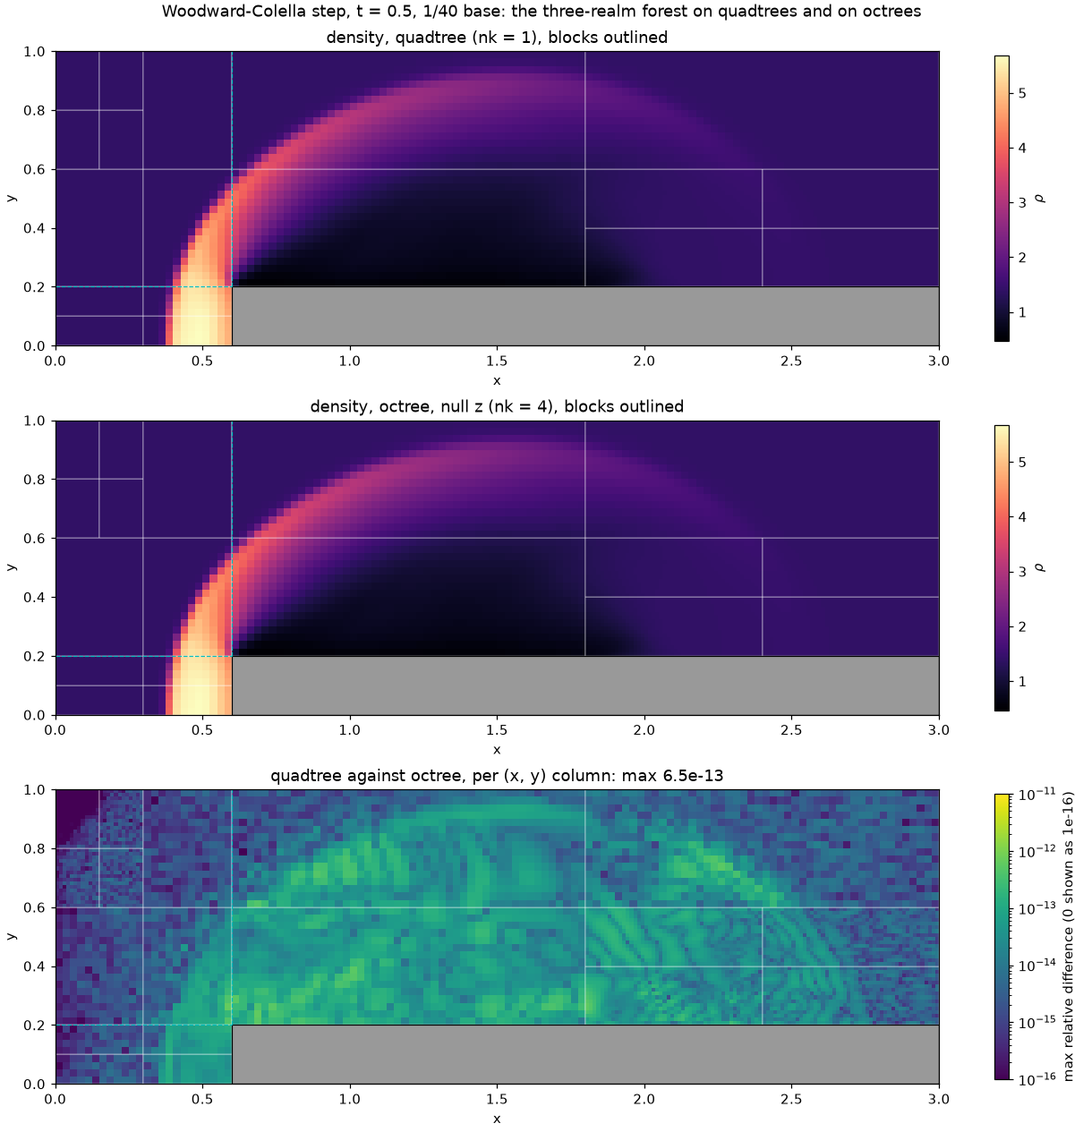
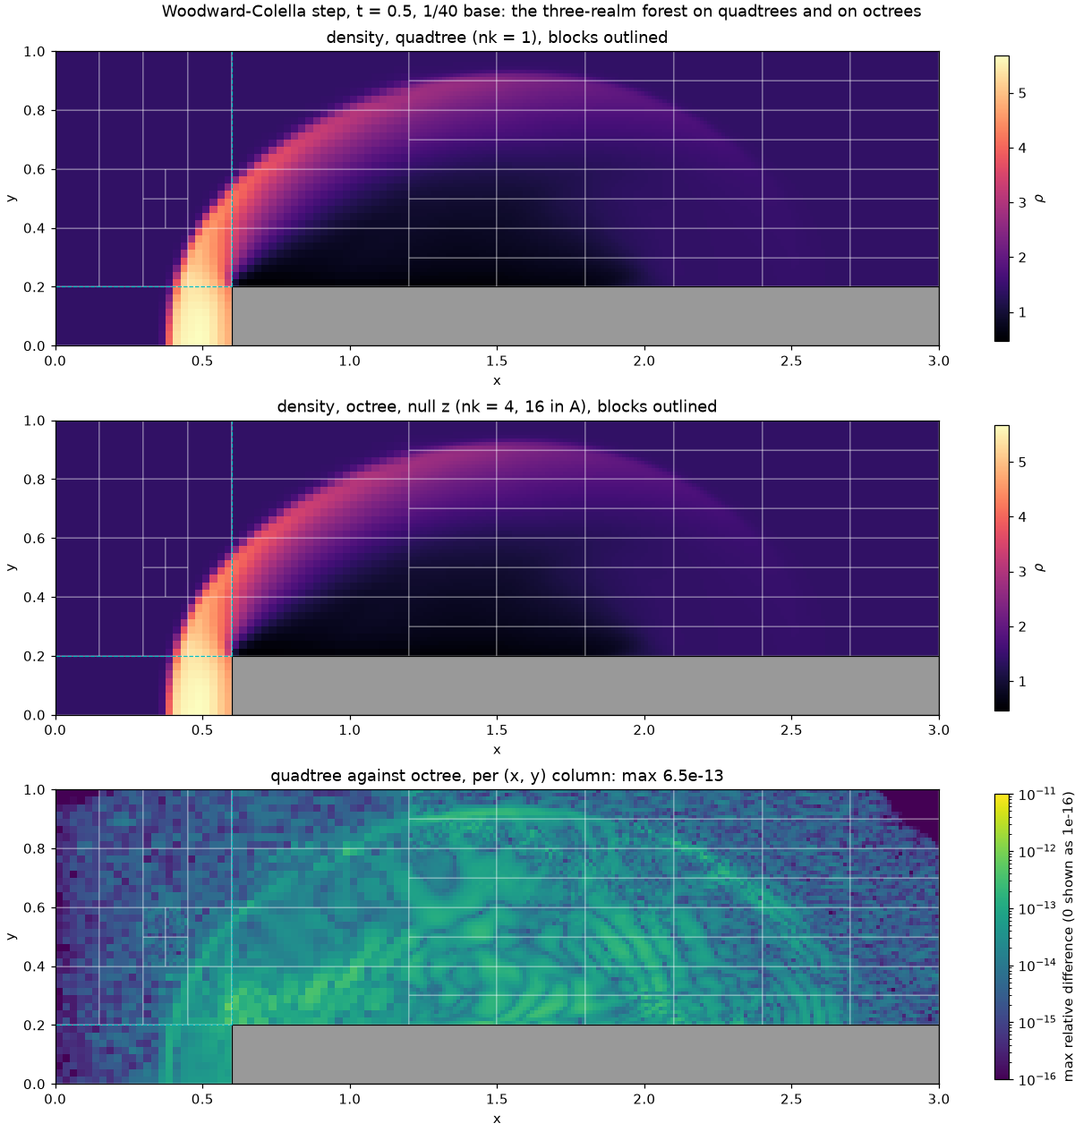
fix(lib): refuse AMR blocks thinner than 2*ngc along a refined axis
At a 2:1 seam the coarse ghost layers beside a finer block are restricted
  from 2*ngc fine cells. A thinner fine block holds fewer, so the outer
  layers were restricted from the fine block's own ghost cells, which the
  same exchange is still filling: fresh or a stage stale depending on the
  exchange order. The local order happened to refresh them first, the MPI
  path did not, so results changed with the rank count, silently (coarse
  ghost density off by 0.2 between 1 and 2 ranks on the step forest).
  realm_object%initialize now refuses n < 2*ngc along every refined,
  non-null axis, next to the even-count rule of #39 (PARAMESH imposes the
  same nxb >= 2*nguard). Every committed case below 6 cells is so only
  along a null axis, where the field is invariant: no golden changes.

  The Woodward-Colella step forest exposed it. Its refined boxes were
  placed for seam coverage and sat in smooth flow; they now sit on the
  t = 4 features (A the bow shock on the lower wall, B the bow shock below
  the Mach stem, C everything from x = 0.9), with B and C on finer blocks
  so the boxes can approach the seams, A on 8-cell blocks, and the octree
  z cells matched across the seams (nk 16 in A). The refinement is
  static and geometric (FLUME AMR is initialisation-only until M5); the
  docs now say so, and that the Mach stem on the B-C seam stays coarse
  (coupling = refined is octree-only).

  - conservation/check.sh: leg 4, ni = 4 must be refused with the message
[…]

diff --git a/src/tests/flume/verification/step/make_step.py b/src/tests/flume/verification/step/make_step.py
@@ -18,14 +18,28 @@ walls of the realms, with no immersed boundary.
           x = 0    x = 0.6                       x = 3
 
 A seam A-B at y = 0.2 (x in [0, 0.6]), a seam B-C at x = 0.6 (y in [0.2, 1]). All three realms share the base cell
-1/N (--cells N, 80 by default, the coarse grid of Woodward and Colella) and N/20 blocks per axis (iu_ref_levels =
-log2(N/20): 4x4 blocks at N = 80, 2x2 at N = 40; the step realm A keeps 4 cells per block along y). --refine adds one
-level on the blocks whose centroid lies in two boxes kept off the seams (a refined block may not touch an inter-realm
-seam): C on x in [1.3, 3], y in [0.2, 0.55] (2:1 seams at x = 1.2 and y = 0.6 at N = 80, x = 1.8 and y = 0.6 at
-N = 40, crossed by the corner's expansion and the reflected shocks) and B on x in [0, 0.4], y in [0.55, 1].
+1/N (--cells N, 80 by default, the coarse grid of Woodward and Colella); B and C have N/10 blocks per axis (8x8 at
+N = 80), narrow enough to refine close to the seams, A N/40 (2x2 at N = 80, a single block at N = 40), so that its
+blocks keep 8 cells along y: a refined block needs at least 2 ngc = 6 cells along every active axis (realm_object
+check_amr_block_cells). The seams A-B and B-C are misaligned 1:1 mirror seams (issue #51).
+
+--refine adds one level on the blocks whose centroid lies in a box of each realm. The refinement is STATIC and
+GEOMETRIC: the boxes are placed by hand on the features of the reference solution at t = 4 and the grid is frozen
+after initialisation (FLUME has no runtime AMR, milestone M5; the initial state is uniform, so no solution-driven
+marker could place them either). A refined block may not touch an inter-realm seam, so the strongest features (the
+Mach stem and the triple point at x ~ 0.6, on the B-C seam) stay on the base grid. The boxes, at N = 80:
+  A  x in [0, 0.6], y in [0, 0.1]: the bow shock standing on the lower wall at x ~ 0.3;
+  B  x in [0.3, 0.525], y in [0.3, 0.7]: the bow shock bending up towards the Mach stem (the column x > 0.525
+     touches the seam);
+  C  x in [0.9, 3], y in [0.2, 1]: everything but the column on the seam, i.e. the reflected shock reaching the step
+     top at x ~ 1.2, the slip line along y ~ 0.8 and the re-reflection reaching the top wall at x ~ 2.4.
+At N = 40 the same boxes select nothing in A (its single block touches the seam); B x in [0.3, 0.45], y in
+[0.4, 0.8]; C x in [1.2, 3].
 
 --tree quad builds every realm as a quadtree with nk = 1 (true 2-D, issue #46); --tree oct as an octree with a null z
-axis and nk = 4, the layout of the AMR verifications before #46. The z extent is 1 in both (null axis).
+axis, the layout of the AMR verifications before #46: nk = 4 in B and C and 16 in A (a block level halves the
+octree's z blocks too, the z cells must match across the mirror seams, and the 2:1 seam fill needs nk >= 4 along a
+refined axis). The z extent is 1 in both (null axis).
 
 The scheme is WENO-5 characteristic flux splitting with SSP-54 (no positivity limiter: it is refused on multi-realm
 runs). The corner is left untreated (Woodward and Colella fix the entropy near it): its numerical boundary layer is
@@ -42,29 +56,33 @@ from pathlib import Path
 
 GAMMA_CP, GAMMA_CV = 3.5, 2.5  # gamma = 1.4 (R = 1: only the ratio matters)
 INFLOW = {"r": 1.4, "u": 3.0, "v": 0.0, "w": 0.0, "p": 1.0}
-# realm: (xmin, xmax, ymin, ymax, faces {face: bc}, refine box (xmin, xmax, ymin, ymax) or None)
+# realm: (xmin, xmax, ymin, ymax, faces {face: bc}, refine box on block centroids (xmin, xmax, ymin, ymax), extra
+# block levels beyond log2(N/20))
 REALMS = {
     "A": (0.0, 0.6, 0.0, 0.2, {"x_min": "inflow", "x_max": "wall-inviscid", "y_min": "wall-inviscid",
-                               "y_max": "seam"}, None),
+                               "y_max": "seam"}, (0.1, 0.5, 0.0, 0.09), -1),
     "B": (0.0, 0.6, 0.2, 1.0, {"x_min": "inflow", "x_max": "seam", "y_min": "seam", "y_max": "wall-inviscid"},
-          (0.0, 0.4, 0.55, 1.0)),
+          (0.3, 0.52, 0.31, 0.7), 1),
     "C": (0.6, 3.0, 0.2, 1.0, {"x_min": "seam", "x_max": "extrapolation", "y_min": "wall-inviscid",
-                               "y_max": "wall-inviscid"}, (1.3, 3.0, 0.2, 0.55)),
+                               "y_max": "wall-inviscid"}, (0.95, 3.0, 0.2, 1.0), 1),
 }
 SEAMS = (("A", "+y", "B", "-y"), ("B", "+x", "C", "-x"))
+EXTRA_MAX = max(realm[-1] for realm in REALMS.values())
 
 
 def realm_ini(name: str, tree: str, cells: int, refine: bool, time_max: str, it_save: str, cfl: str) -> str:
     """Return the INI of one realm."""
-    xmin, xmax, ymin, ymax, faces, box = REALMS[name]
+    xmin, xmax, ymin, ymax, faces, box, extra = REALMS[name]
     if cells % 20 or (cells // 20) & (cells // 20 - 1):
         raise SystemExit(f"make_step: --cells {cells} is not 20 times a power of 2")
-    levels = (cells // 20).bit_length() - 1  # N / 20 blocks per axis
+    levels = max(0, (cells // 20).bit_length() - 1 + extra)  # N / 20 blocks per axis, times 2**extra
     nx, ny = round((xmax - xmin) * cells), round((ymax - ymin) * cells)
     ni, nj = nx // 2**levels, ny // 2**levels
-    if ni * 2**levels != nx or nj * 2**levels != ny or ni % 2 or nj % 2 or min(ni, nj) < 4:
-        raise SystemExit(f"make_step: --cells {cells} gives realm {name} blocks of {ni} x {nj} cells (need even, >= 4)")
     refined = refine and box is not None
+    least = 6 if refined else 4  # 2 ngc along a refined axis
+    if ni * 2**levels != nx or nj * 2**levels != ny or ni % 2 or nj % 2 or min(ni, nj) < least:
+        raise SystemExit(f"make_step: --cells {cells} gives realm {name} blocks of {ni} x {nj} cells (need even, "
+                         f">= {least})")
     lines = [
         f"; Woodward-Colella step, realm {name} (make_step.py, --tree {tree}, --cells {cells})",
         "[IO]", f"output_basename        = step-{name}", f"it_save                = {it_save}",
@@ -73,7 +91,8 @@ def realm_ini(name: str, tree: str, cells: int, refine: bool, time_max: str, it_
         "residuals_save         = 1", "save_memory_status     = .false.", "save_residual_fields   = .false.",
         "save_auxiliary_fields  = .false.", "save_curl_fields       = .false.", "save_divergence_fields = .false.",
         "save_gradient_fields   = .false.", "save_laplacian_fields  = .false.",
-        "[grid]", f"ni     = {ni}", f"nj     = {nj}", f"nk     = {1 if tree == 'quad' else 4}", "ngc    = 3",
+        "[grid]", f"ni     = {ni}", f"nj     = {nj}",
+        f"nk     = {1 if tree == 'quad' else 4 * 2 ** (EXTRA_MAX - extra)}", "ngc    = 3",
         f"emin_x = {xmin!r}", f"emin_y = {ymin!r}", "emin_z = 0.0", f"emax_x = {xmax!r}", f"emax_y = {ymax!r}",
         "emax_z = 1.0", "null_x = .false.", "null_y = .false.", "null_z = .true.",
         "[amr]", f"max_level      = {levels + (1 if refined else 0)}", f"ratio          = {4 if tree == 'quad' else 8}",
@@ -135,7 +154,7 @@ def main() -> None:
     parser.add_argument("--tree", choices=("quad", "oct"), default="quad")
     parser.add_argument("--cells", type=int, default=80, help="base cells per unit length")
     parser.add_argument("--time-max", default="4.0")
-    parser.add_argument("--refine", action="store_true", help="refine one level on two boxes off the seams")
+    parser.add_argument("--refine", action="store_true", help="refine one level on a static box of each realm")
     parser.add_argument("--it-save", default="1000000", help="checkpoint period (the first and last are always saved)")
     parser.add_argument("--cfl", default="0.5")
     args = parser.parse_args()

diff --git a/src/tests/flume/verification/make_doc_figures.py b/src/tests/flume/verification/make_doc_figures.py
@@ -321,8 +321,9 @@ def fig_cylinder(out: Path, runs: Path) -> None:
 
 
 def fig_step(out: Path, runs: Path) -> None:  # noqa: ARG001
-    """EV-step: Woodward-Colella Mach 3 step at t = 4, three realms on quadtrees: density with blocks, Mach number,
-    and a zoom on the reflected shock crossing the quadtree 2:1 seam at x = 1.2."""
+    """EV-step: Woodward-Colella Mach 3 step at t = 4, three realms on quadtrees with static refined boxes: density
+    with blocks, Mach number, and a zoom on the Mach stem (on the B-C seam, base grid) and the reflected shock crossing
+    C's quadtree 2:1 seam at x = 0.9, against the uniform 1/80 control."""
     work = HERE / "step" / f"{TAG}-full"
     ini = read_ini(work / "step-A.ini")
     gamma, ngc = gamma_of(ini), int(ini["grid"]["ngc"])
@@ -334,7 +335,7 @@ def fig_step(out: Path, runs: Path) -> None:  # noqa: ARG001
     axs = [fig.add_subplot(grid[0, :]), fig.add_subplot(grid[1, :]), fig.add_subplot(grid[2, 0]),
            fig.add_subplot(grid[2, 1])]
     panels = ((axs[0], "r", (0.0, 3.0, 0.0, 1.0)), (axs[1], "mach", (0.0, 3.0, 0.0, 1.0)),
-              (axs[2], "r", (0.9, 1.7, 0.2, 0.7)), (axs[3], "r" if bu else "p", (0.9, 1.7, 0.2, 0.7)))
+              (axs[2], "r", (0.4, 1.4, 0.2, 1.0)), (axs[3], "r" if bu else "p", (0.4, 1.4, 0.2, 1.0)))
     labels = {"r": r"$\rho$", "mach": "Mach number", "p": "p"}
     for ax, key, (x0, x1, y0, y1) in panels:
         cmap = {"r": "magma", "mach": "coolwarm", "p": "viridis"}[key]
@@ -348,11 +349,11 @@ def fig_step(out: Path, runs: Path) -> None:  # noqa: ARG001
         fig.colorbar(im, ax=ax, label=labels[key], shrink=0.9)
         ax.set_xlabel("x")
         ax.set_ylabel("y")
-    axs[0].set_title("density, blocks outlined (refined boxes), inter-realm seams dashed")
+    axs[0].set_title("density, blocks outlined (static refined boxes), inter-realm seams dashed")
     axs[1].set_title("Mach number")
-    axs[2].set_title("density, zoom: refined box from x = 1.2 (2:1 seams)")
+    axs[2].set_title("density, zoom: C refined from x = 0.9 (2:1 seam)")
     axs[3].set_title("density, same zoom, uniform 1/80 (no refined box)" if bu else "pressure, same zoom")
-    fig.suptitle("Woodward-Colella Mach 3 step, t = 4: three realms on quadtrees, 1/80 base, 1/160 in the boxes")
+    fig.suptitle("Woodward-Colella Mach 3 step, t = 4: three realms on quadtrees, 1/80 base, 1/160 in static boxes")
     fig.savefig(out / "step.png", dpi=DPI)
     plt.close(fig)
 
@@ -380,7 +381,7 @@ def fig_step_trees(out: Path, runs: Path) -> None:  # noqa: ARG001
     scale[1:4] = scale[1:4].max()  # momentum as one vector
     diff = {k: float(np.max(np.abs(cols["quad"][k] - cols["oct"][k]) / scale)) for k in cols["quad"]}
     fig, axs = plt.subplots(3, 1, figsize=(11, 11.5), constrained_layout=True)
-    for ax, tree, title in ((axs[0], "quad", "quadtree (nk = 1)"), (axs[1], "oct", "octree, null z (nk = 4)")):
+    for ax, tree, title in ((axs[0], "quad", "quadtree (nk = 1)"), (axs[1], "oct", "octree, null z (nk = 4, 16 in A)")):
         im = field_map(ax, first_plane(bl[tree]), lambda b: plane(b, gamma, "r"), cmap="magma", outline=True)
         fig.colorbar(im, ax=ax, label=r"$\rho$", shrink=0.9)
         ax.set_title(f"density, {title}, blocks outlined")

diff --git a/docs/applications/flume/verification.md b/docs/applications/flume/verification.md
@@ -169,43 +169,93 @@ no immersed boundary.
 | B | $[0, 0.6] \times [0.2, 1]$ | inflow, seam with A (bottom), seam with C (right), wall (top) |
 | C | $[0.6, 3] \times [0.2, 1]$ | seam with B (left), wall (step top), wall (top), outflow |
 
-The realms share the base cell $1/N$ and $N/20$ blocks per axis. One more level refines two boxes on **quadtrees**
-(`ratio = 4`, `nk = 1`, [#46](https://github.com/szaghi/adam/issues/46)): in C the blocks of $x \ge 1.2$ (at
-$N = 80$), $y \le 0.6$, where the reflected shocks run; in B the upper inflow corner. A refined block may not touch an
-inter-realm seam, so the boxes keep off $x = 0.6$ and $y = 0.2$; the case therefore carries both kinds of seam: two
-inter-realm mirror seams on different axes and the intra-realm 2:1 seams of the boxes. WENO5 characteristic flux
-splitting, SSP-54, CFL 0.5, reflux on; the corner is left untreated (Woodward and Colella reset the entropy near it).
+The realms share the base cell $1/N$. B and C have $N/10$ blocks per axis, narrow enough to refine close to the
+seams. A has $N/40$, so that its blocks keep 8 cells along y: a refined block needs at least $2\,n_{gc} = 6$ cells along
+every active axis (see below). Both seams are misaligned 1:1 mirror seams
+([#51](https://github.com/szaghi/adam/issues/51)). One more level refines a box in each realm, on **quadtrees**
+(`ratio = 4`, `nk = 1`, [#46](https://github.com/szaghi/adam/issues/46)).
 
-**Trees** (the default leg of `step/check.sh`). The same forest at $N = 40$ (2×2 blocks per realm, the refined boxes
-from $x = 1.8$ in C), run to $t = 0.5$ (408 steps) on quadtrees and on octrees with a null z axis and `nk = 4` (the layout
-of every AMR verification before #46), compared column by column with `mhd/quadtree/quadtree_oracle.py` (momentum
-scaled as one vector):
+::: warning The refinement is static
+The boxes are placed by hand on the features of the reference solution at $t = 4$, and the grid is frozen after
+initialisation: FLUME has no runtime AMR (milestone M5). A solution-driven marker could not place them either, since
+the tunnel starts uniform. The boxes therefore follow the flow only once it has settled, and the case verifies the
+seam machinery, not adaptivity.
+:::
 
-| | Octree, null z (`nk = 4`) | Quadtree (`nk = 1`) |
+At $N = 80$ the boxes are:
+- **A**, $y \le 0.1$: the bow shock standing on the lower wall.
+- **B**, $x \in [0.3, 0.525]$, $y \in [0.3, 0.7]$: the bow shock bending up towards the Mach stem. The column
+  $x > 0.525$ touches the B–C seam.
+- **C**, $x \ge 0.9$: all of the realm except the block column on the seam. That covers the reflected shock reaching
+  the step top, the slip line and the re-reflection off the top wall.
+
+A refined block may not touch an inter-realm seam (C's seam is only its face $x = 0.6$; its face $y = 0.2$ is the
+step top, a wall). The strongest features, the Mach stem and the triple point at $x \approx 0.6$, therefore sit on the
+B–C seam and stay on the base grid. Refining across that seam would take the 2:1 inter-realm coupling
+(`coupling = refined`, [#52](https://github.com/szaghi/adam/issues/52)), which is available on octrees only. The case
+carries both kinds of seam: two inter-realm mirror seams on different axes, and the intra-realm 2:1 seams of the boxes.
+
+WENO5 characteristic flux splitting, SSP-54, CFL 0.5, reflux on. The corner is left untreated (Woodward and Colella
+reset the entropy near it).
+
+**Trees** (the default leg of `step/check.sh`). The same forest at $N = 40$, run to $t = 0.5$ (440 steps) on quadtrees
+and on octrees with a null z axis (`nk = 4`, 16 in A: the layout of every AMR verification before #46), compared column
+by column with `mhd/quadtree/quadtree_oracle.py` (momentum scaled as one vector). At this resolution A is a single
+block that touches its seam and stays unrefined; B is refined on $x \in [0.3, 0.45]$, $y \in [0.4, 0.8]$, C from
+$x = 1.2$.
+
+| | Octree, null z | Quadtree (`nk = 1`) |
 |---|---|---|
-| z spread of a column | $7.6\cdot10^{-13}$ (FNL $4.4\cdot10^{-13}$) | 0 (FNL 0) |
-| against the octree, per $(x, y)$ column | — | $6.5\cdot10^{-13}$ (FNL $3.7\cdot10^{-13}$) |
+| z spread of a column | $6.1\cdot10^{-13}$ (FNL $3.1\cdot10^{-13}$) | 0 (FNL 0) |
+| against the octree, per $(x, y)$ column | — | $6.5\cdot10^{-13}$ (FNL $2.7\cdot10^{-13}$) |
 | min $\rho$, min $p$ (CPU and FNL) | 0.469, 0.715 | 0.469, 0.715 |
 
 The trees order the restriction sums differently (8 fine cells over two identical z layers, against 4), so they agree to
 round-off, not bit for bit; the octree is z-invariant to round-off only, its tricubic seam weights depending on the z
-sub-position. The difference map carries no structure at the seams, inter-realm or 2:1. The leg takes 4 min on the
-CPU; the octree costs 16 times the quadtree (its blocks split along z too).
+sub-position. The difference map carries no structure at the seams, inter-realm or 2:1. The leg takes about 10 min on
+the CPU, 9 of them for the octree (its blocks split along z too).
+
+::: details What this leg caught: blocks thinner than 2 ngc ([#66](https://github.com/szaghi/adam/issues/66))
+A first layout kept A's blocks at 4 cells along y and refined them. The quadtree then differed from the octree by
+$2.4\cdot10^{-5}$, with no difference in either tree's z invariance. Bisection put it on the quadtree alone, and only
+across ranks:
+
+| Comparison | Max difference |
+|---|---|
+| Quadtree, np 1, against the octree, np 1 or np 2 | $2\cdot10^{-14}$ |
+| Quadtree, np 1, against np 2 | $4.6\cdot10^{-6}$ after one step |
+
+The difference was independent of `seam_ghost_fill` and of `reflux`. At the bisected cell, the coarse ghost density
+next to the step wall differed by 0.20.
+
+The coarse ghost layers beside a finer block are restricted from $2\,n_{gc}$ fine cells. A 4-cell block holds fewer,
+so the outer layer was restricted from the fine block's own ghost cells, which the same exchange is still filling. They
+are fresh or a stage stale depending on the exchange order: the local order happened to refresh them first, the MPI
+path did not. The octree passed only because its rank layout kept the two fine blocks together.
+
+The library now refuses blocks thinner than $2\,n_{gc}$ along a refined, non-null axis, the constraint block-structured
+AMR codes such as PARAMESH impose. No committed case is affected: every one below 6 cells is so only along a null axis,
+where the field is invariant.
+:::
 
 ![Step forest at t = 0.5 on quadtrees and octrees](/flume/step-trees.png)
 
-**Woodward and Colella's run** (the `full` leg, not default: about 30 min on the CPU). $N = 80$, their coarse grid, the
-boxes at $1/160$, to $t = 4$ (7392 steps): density and pressure stay positive (min 0.356, 0.393). The picture has the
-features of their reference: the bow shock standing at $x \approx 0.3$ on the lower wall, its Mach reflection off the
-top wall at $x \approx 0.6$ with the triple point near $(0.6, 0.78)$ and the slip line leaving it along $y \approx 0.8$,
-the reflected shock striking the step top at $x \approx 1.2$ in a Mach reflection, and its re-reflection reaching the
-top wall at $x \approx 2.4$. The low-Mach layer along the step top is the numerical boundary layer of the untreated
-corner, the artifact Woodward and Colella remove with their entropy fix.
+**Woodward and Colella's run** (the `full` leg, not default: about 41 min on the CPU, plus 13 min for the uniform
+control). $N = 80$, their coarse grid, the boxes at $1/160$, to $t = 4$ (7545 steps): density and pressure stay
+positive (min 0.344, 0.370). The picture has the features of their reference:
+- the bow shock standing at $x \approx 0.3$ on the lower wall;
+- its Mach reflection off the top wall at $x \approx 0.6$, with the triple point near $(0.6, 0.78)$ and the slip line
+  leaving it along $y \approx 0.8$;
+- the reflected shock striking the step top at $x \approx 1.2$ in a Mach reflection;
+- its re-reflection reaching the top wall at $x \approx 2.4$.
 
-The reflected shock meets the step top right where the refined box of C begins, at the 2:1 seam $x = 1.2$; the zoom
-compares it with the same run on a uniform $1/80$ grid (no box, `x = 1.2` a 1:1 block face): the Mach reflection and its
-triple point near $(1.2, 0.31)$ sit at the same place, so the seam does not pin them, and the refined box resolves them
-more sharply.
+The low-Mach layer along the step top is the numerical boundary layer of the untreated corner, the artifact Woodward
+and Colella remove with their entropy fix.
+
+The zoom compares the refined run with the same run on a uniform $1/80$ grid (no box). The Mach stem and the triple
+point sit on the B–C seam, on the base grid in both runs, and agree. C's 2:1 seam at $x = 0.9$ is crossed by the
+reflected shock and the slip line without a kink. Downstream of it, the box resolves the shock pattern near the step top
+($x \approx 1.2$) more sharply than the uniform grid, which smears it into a single blob.
 
 ![Woodward-Colella step at t = 4](/flume/step.png)
 

diff --git a/docs/guide/forest-cookbook.md b/docs/guide/forest-cookbook.md
@@ -95,7 +95,11 @@ What happens at a 2:1 face:
 2. **Even** `ni`/`nj`/`nk` along every refined, non-null axis when 2:1 refinement is possible (markers and
    `max_level > iu_ref_levels`): an odd count is refused ([#39](https://github.com/szaghi/adam/issues/39); it used to
    give NaN silently).
-3. At least 4 cells per block on every axis, null axes included, for the coarse-fine interpolation footprint.
+3. At least `2 ngc` cells (6 with WENO5) along the same axes. The coarse ghosts beside a finer block are restricted from
+   `2 ngc` fine cells; a thinner block makes the outer layers read its own ghosts, which the same exchange is still
+   filling (stale, silently, depending on the exchange order: 0.2 in density between 1 and 2 ranks on the step
+   forest). Refused at initialisation ([#66](https://github.com/szaghi/adam/issues/66)).
+4. At least 4 cells per block on every axis, null axes included, for the coarse-fine interpolation footprint.
 
 **Log.** `forest: registered intra-realm AMR seam faces: +N`.
 
@@ -377,6 +381,7 @@ chosen so that `dx` halves). Drop the markers in both. `verification/multirealm/
 | `conflicting coupling_cadence between realm A and realm B` | two pairs between the same realms with different cadences | one cadence per realm pair |
 | `[amr] ratio = 4 (quadtree) with AMR markers ... on the NVF and GMP backends` | #46: their ghost kernels are octree-only | `ratio = 8`, or the CPU/FNL backend |
 | `[grid].(ni)=+7 is odd: 2:1 refinement ...` | #39 | even counts along refined axes |
+| `[grid].(nj)=+4 is less than 2*ngc = +6 ...` | #66: thin blocks read stale ghosts at 2:1 seams | at least `2 ngc` cells along refined axes |
 | `(positivity_limiter)=cell is not supported on multi-realm runs` | the FLUME limiter | no limiter in a forest |
 
 ## Current limits

diff --git a/docs/applications/flume/input.md b/docs/applications/flume/input.md
@@ -126,7 +126,7 @@ Read in three places: the grid reads `ratio`, the tree reads the refinement shap
 | `i_prune`, `j_prune`, `k_prune`, `l_prune` | int | **no check** | declared -1, **not applied** | See the notes below the table. | partly | Pruning of a "simple initial forest". FLUME never calls `prune`, but the values still enter the neighbour/boundary detection. |
 | `frequency` | int | yes | 100 | any | **no** | Runtime AMR cadence. FLUME AMR is initialisation-only, and runtime regrid is fatal. |
 | `iters` | int | yes | 5 | any | yes | Maximum marker sweeps per AMR update (it stops early when the grid is stable). |
-| `markers_number` | int | yes | 0 | `>= 0` | yes | Number of `[amr_marker_N]` sections. With markers and `max_level > iu_ref_levels` (2:1 refinement possible), every refined non-null axis (x, y; z too on an octree) needs an even block cell count `ni`/`nj`/`nk`: an odd one is fatal at initialisation (issue #39; it used to give NaN silently). |
+| `markers_number` | int | yes | 0 | `>= 0` | yes | Number of `[amr_marker_N]` sections. With markers and `max_level > iu_ref_levels` (2:1 refinement possible), every refined non-null axis (x, y; z too on an octree) needs an even block cell count `ni`/`nj`/`nk`: an odd one is fatal at initialisation (issue #39; it used to give NaN silently). The same axes need at least `2 ngc` cells (6 with WENO5): a thinner block made the coarse ghosts read stale fine ghosts, silently; fatal at initialisation (issue #66). |
 | `seam_ghost_fill` | string | no | `tricubic` | `injection`, `restriction-compatible`, `tricubic`. Any other value is fatal. | yes | Coarse-to-fine ghost fill at 2:1 AMR seams. |
 
 Notes on the four `*_prune` keys:

diff --git a/docs/applications/flume/initial-conditions.md b/docs/applications/flume/initial-conditions.md
@@ -52,7 +52,7 @@ the `update_ghost` call that follows.
 | key | type | meaning |
 |---|---|---|
 | `type` | string (control characters are blanked by `strip_control`, so CRLF files parse) | one of the 13 names below. Any other value stops the run and the message lists all 13. |
-| `amr_iterations` | integer, **required** | the number of init-time AMR passes (set the IC, refine, repeat). The value is clamped to $\ge 0$. The loop is at `cpu/adam_flume_cpu_object.F90` and `fnl/adam_flume_fnl_object.F90`. When the value is $>0$, every non-null axis must have an even block cell count, otherwise `error_stop`. |
+| `amr_iterations` | integer, **required** | the number of init-time AMR passes (set the IC, refine, repeat). The value is clamped to $\ge 0$. The loop is at `cpu/adam_flume_cpu_object.F90` and `fnl/adam_flume_fnl_object.F90`. When the value is $>0$, every refined non-null axis must have an even block cell count of at least `2 ngc`, otherwise `error_stop`. |
 
 **Region sections** are named `[initial_conditions_region_N]`, with $N = 1..$`regions_number`. They hold the primitive keys `r, u, v, w, p`, plus `bx, by, bz` for either MHD
 model. Every one of these keys is required. $\psi$ has no key. The number of region sections
